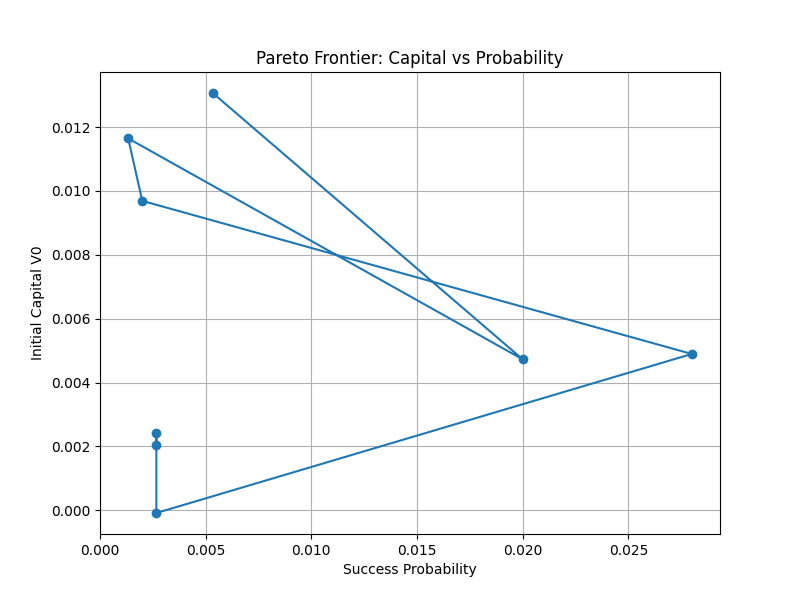
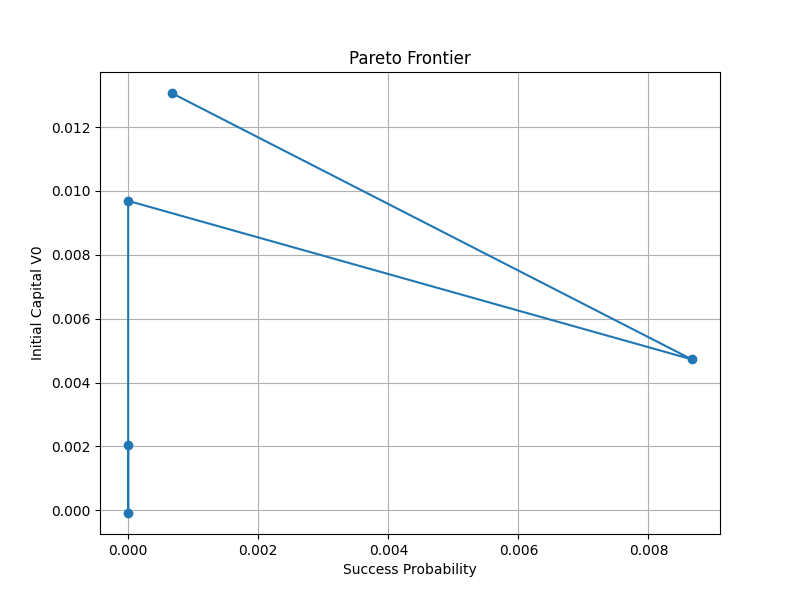
Update

diff --git a/evaluation/eval_across_mu.py b/evaluation/eval_across_mu.py
@@ -3,93 +3,99 @@ import numpy as np
 import matplotlib.pyplot as plt
 import tensorflow as tf
 import sys
+import pandas as pd
+
+# Add project root to path
 sys.path.append(os.path.abspath(os.path.join(os.path.dirname(__file__), '..')))
+
 from data.generator import DataGenerator
 from models.architecture import create_lstm_model
 from models.loss_function import augmented_quantile_loss
 
 # Parameters
-mu_values = [10, 50, 100, 500, 1000, 2000, 5000, 10000]
+mu_values = [10, 100, 1000, 5000, 10000, 20000]
 q_target = 0.8
-epochs = 20
-batch_size = 512
 model_dir = "models_mu"
-os.makedirs(model_dir, exist_ok=True)
+plot_dir = "plots"
+os.makedirs(plot_dir, exist_ok=True)
 
-# Data generation
+# Load evaluation data
 generator = DataGenerator(num_samples=5000, time_steps=30)
 x_train, x_test, y_train, y_test = generator.generate_data()
-input_shape = x_train.shape[1:]
+input_shape = x_test.shape[1:]
 
-# Storage
+# Storage for results
 V0_list = []
 prob_success_list = []
 
-# Loop over mu
 for mu in mu_values:
-    print(f"Training model for mu = {mu}")
+    print(f"\nEvaluating for mu = {mu}...")
+    
+    # Build and compile model
     model = create_lstm_model(input_shape=input_shape)
-    loss_fn = augmented_quantile_loss( mu=mu)
+    loss_fn = augmented_quantile_loss(mu=mu, q_target=q_target)
     model.compile(optimizer=tf.keras.optimizers.Adam(learning_rate=1e-4), loss=loss_fn)
 
-    model.fit(x_train, y_train, batch_size=batch_size, epochs=epochs, verbose=0)
-    
-    # Save weights
-    model_path = os.path.join(model_dir, f"model_mu_{mu}.weights.h5")
-    model.save_weights(model_path)
+    # Load pre-trained weights
+    weight_path = os.path.join(model_dir, f"model_mu_{mu}.weights.h5")
+    if not os.path.exists(weight_path):
+        print(f"❌ Weights for mu={mu} not found at {weight_path}, skipping...")
+        continue
+    model.load_weights(weight_path)
 
     # Predict
-    y_pred = model.predict(x_test)
+    y_pred = model.predict(x_test, verbose=0)
 
-    # Extract V0
+    # Extract initial capital
     V0 = y_pred[:, 0, 0]
     V0_mean = np.mean(V0)
     V0_list.append(V0_mean)
 
-    # Portfolio value
+    # Compute portfolio
     delta = y_pred[:, 1:, :]
     price_incr = y_test[:, 1:, :] - y_test[:, :-1, :]
     gains = np.sum(delta * price_incr, axis=(1, 2))
     portfolio = V0 + gains
 
-    # Payoff H
+    # Payoff
     K = 100.0
     H = np.maximum(y_test[:, -1, 0] - K, 0.0)
 
+    # Probability of successful hedge
     success_prob = np.mean(portfolio >= H)
     prob_success_list.append(success_prob)
 
-# Plotting
+# ---------- Plots ----------
 plt.figure(figsize=(8, 6))
-plt.plot(mu_values, V0_list, marker='o')
+plt.plot(mu_values[:len(V0_list)], V0_list, marker='o')
 plt.xlabel("Mu (penalty weight)")
 plt.ylabel("Initial Capital V0")
-plt.title("V0 vs Mu")
+plt.title("Initial Capital vs. Mu")
 plt.grid(True)
-plt.savefig("plots/v0_vs_mu.png")
+plt.savefig(os.path.join(plot_dir, "v0_vs_mu.png"))
 
 plt.figure(figsize=(8, 6))
-plt.plot(mu_values, prob_success_list, marker='o')
+plt.plot(mu_values[:len(prob_success_list)], prob_success_list, marker='o')
 plt.xlabel("Mu (penalty weight)")
 plt.ylabel("Success Probability")
-plt.title("Success Probability vs Mu")
+plt.title("Success Probability vs. Mu")
 plt.grid(True)
-plt.savefig("plots/prob_vs_mu.png")
+plt.savefig(os.path.join(plot_dir, "prob_vs_mu.png"))
 
 plt.figure(figsize=(8, 6))
 plt.plot(prob_success_list, V0_list, marker='o')
 plt.xlabel("Success Probability")
 plt.ylabel("Initial Capital V0")
-plt.title("Pareto Frontier: Capital vs Probability")
+plt.title("Pareto Frontier")
 plt.grid(True)
-plt.savefig("plots/pareto_frontier.png")
+plt.savefig(os.path.join(plot_dir, "pareto_frontier.png"))
 
-import pandas as pd
+# ---------- Save Results ----------
 df = pd.DataFrame({
-    "mu": mu_values,
+    "mu": mu_values[:len(V0_list)],
     "V0": V0_list,
     "prob_success": prob_success_list
 })
-df_path = os.path.join(model_dir, "mu_results.csv")
-df.to_csv(df_path, index=False)
+df.to_csv(os.path.join(model_dir, "mu_results.csv"), index=False)
 
+print("\n✅ Evaluation complete. Results saved.")

diff --git a/training/train_across_mu_bs.py b/training/train_across_mu_bs.py
@@ -1,0 +1,51 @@
+import os
+import tensorflow as tf
+import sys
+
+# Add project root to path
+sys.path.append(os.path.abspath(os.path.join(os.path.dirname(__file__), '..')))
+
+from data.generator import DataGenerator
+from models.loss_function import augmented_quantile_loss
+from models.architecture import create_lstm_model
+
+# Parameters
+num_samples = 100000
+time_steps = 30
+learning_rate = 1e-4
+q_target = 0.99  # target hedging probability
+epochs = 40
+batch_size = 128
+
+# List of mu values to train over
+mu_values = [10, 100, 1000, 5000, 10000, 20000]
+
+# Prepare data once
+print("Generating data...")
+generator = DataGenerator(num_samples=num_samples, time_steps=time_steps)
+x_train, x_test, y_train, y_test = generator.generate_data()
+input_shape = (time_steps, 1)
+
+# Training loop
+for mu in mu_values:
+    print(f"\n=== Training model with mu = {mu} ===")
+
+    # Build and compile model
+    model = create_lstm_model(input_shape=input_shape, learning_rate=learning_rate)
+    loss_fn = augmented_quantile_loss(mu=mu, q_target=q_target)
+    model.compile(optimizer=tf.keras.optimizers.Adam(learning_rate), loss=loss_fn)
+
+    # Train model
+    model.fit(x_train, y_train,
+              epochs=epochs,
+              batch_size=batch_size,
+              validation_split=0.2,
+              verbose=2)
+
+    # Save weights
+    os.makedirs("models", exist_ok=True)
+    weight_path = f"models/lstm_quantile_mu_{mu}.weights.h5"
+    model.save_weights(weight_path)
+    print(f"Saved weights to: {weight_path}")
+
+print("\n✅ All trainings complete.")

diff --git a/models/loss_function.py b/models/loss_function.py
@@ -1,36 +1,23 @@
 import tensorflow as tf
 
-def augmented_quantile_loss(mu: float):
-    
-    #Loss = |V_0|^2 + mu * P(portfolio >= H)
-    
-    def sigmoid_indicator(portfolio, H, beta=50.0):
+def augmented_quantile_loss(q_target: float = 0.8, mu: float = 100):
+    # L = |V_0|^2 + mu * max(0, q* - P(portfolio >= H))^2
+    def sigmoid_indicator(portfolio, H, beta=30.0):
         return tf.square(tf.maximum(tf.sigmoid(beta * (portfolio - H)) - 0.5, 0.0))
 
     def loss(y_true, y_pred):
-        # Initial capital prediction (V0)
         V0 = y_pred[:, 0, 0]
-
-        # Trading strategy deltas
         delta = y_pred[:, 1:, :]
-
-        # Price increments
         price_incr = y_true[:, 1:, :] - y_true[:, :-1, :]
-
-        # Payoff: max(S_T - K, 0)
         K = tf.constant(100.0, dtype=tf.float32)
         H = tf.maximum(y_true[:, -1, 0] - K, 0.0)
 
-        # Portfolio value
         gains = tf.reduce_sum(tf.reduce_sum(delta * price_incr, axis=2), axis=1)
         portfolio = V0 + gains
 
-        # Soft success proxy
         success_prob = tf.reduce_mean(sigmoid_indicator(portfolio, H))
-
-        # Loss components
         L1 = tf.reduce_mean(tf.square(V0))
-        L2 = mu * success_prob
+        L2 = mu * tf.square(tf.maximum(0.0, q_target - success_prob))
 
         return L1 + L2
 

diff --git a/data/generator.py b/data/generator.py
@@ -6,7 +6,7 @@ import matplotlib.pyplot as plt
 class DataGenerator:
     # BS model parameters
     def __init__(self, num_samples: int, time_steps: int, init_price: float = 100.0,
-                 mu: float = 0.0, sigma: float = 0.2, dt: float = 1.0 / 30):
+                 mu: float = 0.5, sigma: float = 0.4, dt: float = 1.0 / 30):
         self.num_samples = num_samples
         self.time_steps = time_steps
         self.init_price = init_price
@@ -28,7 +28,7 @@ class DataGenerator:
         y = self.simulate_bs_paths()
         x = np.zeros_like(y)
         x[:, 0] = y[:, 0]
-        x[:, 1] = y[:, 0]
+        x[:, 1:] = y[:, :-1]
         x[:, 2:] = y[:, :-2]
 
         x = x.reshape(self.num_samples, self.time_steps, 1)
